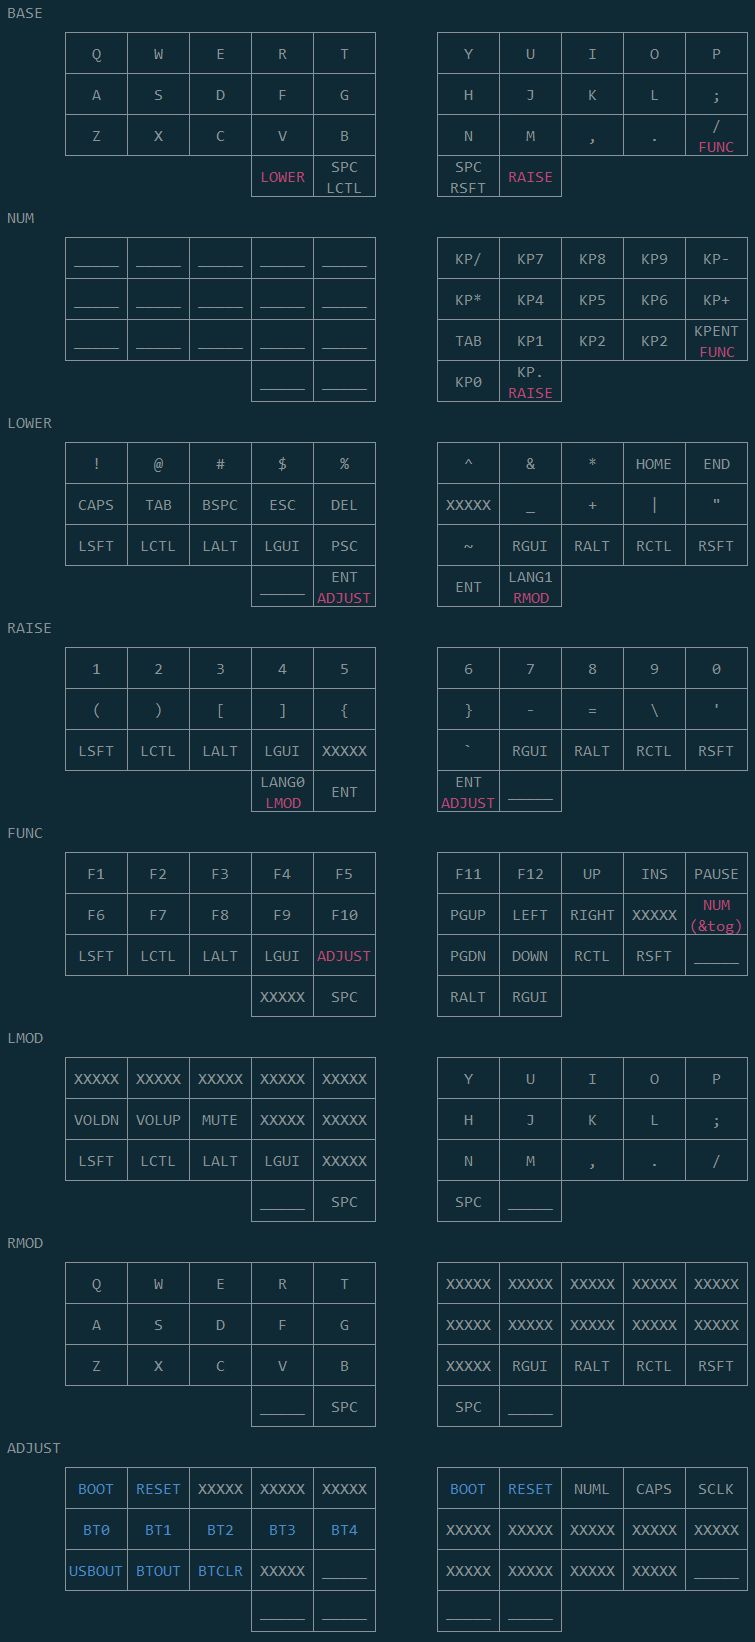
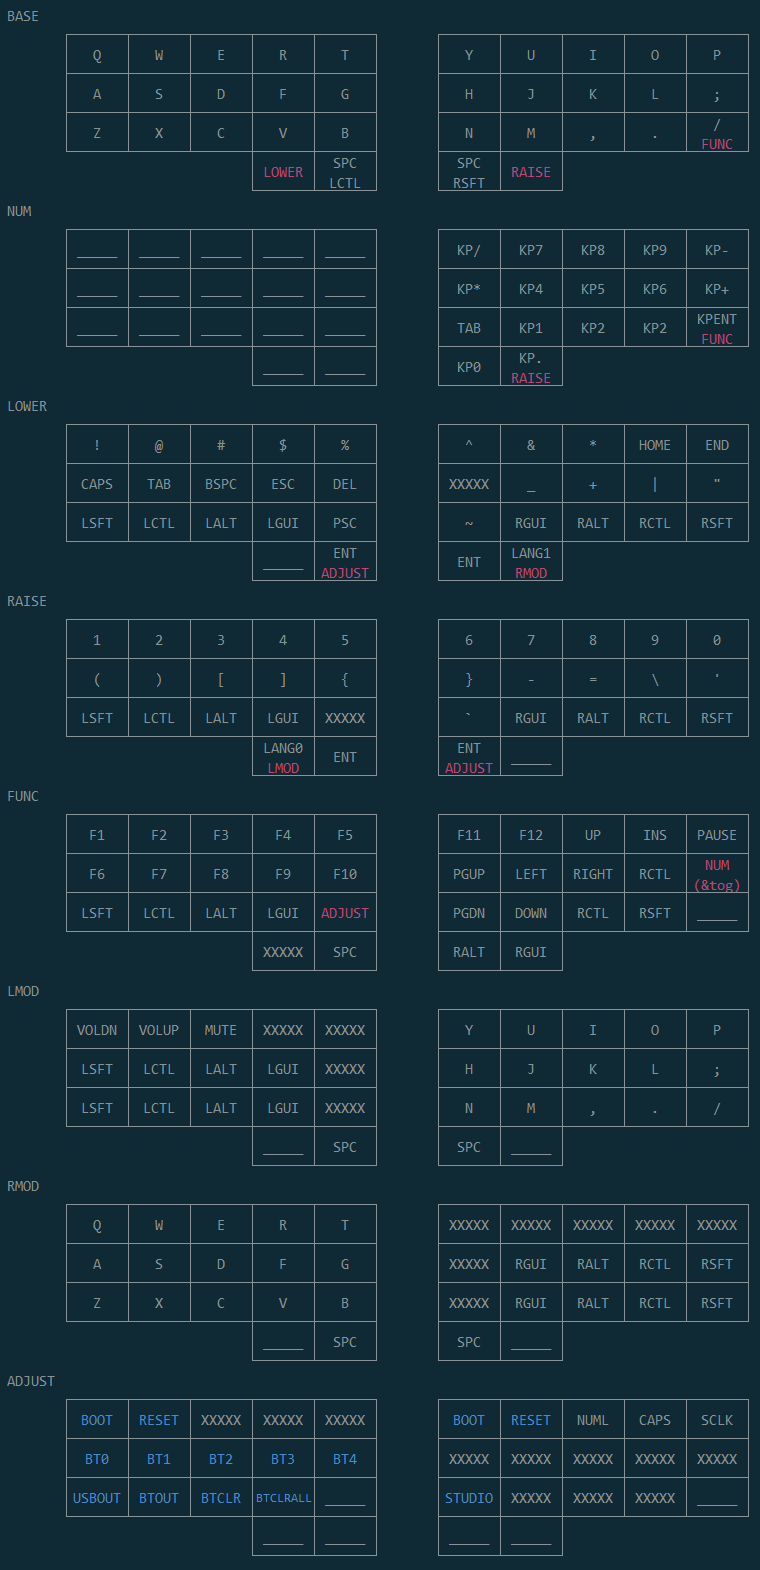
add: ZMK Studio, etc.

diff --git a/doc/buildguide.md b/doc/buildguide.md
@@ -92,21 +92,23 @@ When charging is complete, the green LED will turn off. Disconnect the USB cable
 
 # Firmware
 
-Please refer to the official ZMK Firmware documentation for instructions on how to flash firmware, change keymap, etc.  
+Please refer to the official ZMK Firmware documentation for instructions on how to flash firmware, change keymap, etc.   
+The latest firmware supports ZMK Studio.
 
 You can download UF2 file from the following link.  
 https://github.com/note96e/thorium-zmk-config/releases  
 After downloading, unzip the thorium-x.x.x.zip file.
-- Dongle: thorium-seeeduino_xiao_ble-zmk.uf2  
+- Dongle: thorium_dongle-seeeduino_xiao_ble-zmk.uf2  
 - Left half: thorium_left-seeeduino_xiao_ble-zmk.uf2  
 - Right half: thorium_right-seeeduino_xiao_ble-zmk.uf2  
 
 You can download the UF2 file for the dongle and each half pairing reset.   
 https://github.com/note96e/thorium-reset-zmk-config/releases  
 After downloading, unzip the thorium-reset-x.x.x.zip file. 
-- Dongle: thorium_reset-seeeduino_xiao_ble-zmk.uf2  
+- Dongle: thorium_reset_dongle-seeeduino_xiao_ble-zmk.uf2  
 - Left half: thorium_reset_left-seeeduino_xiao_ble-zmk.uf2  
 - Right half: thorium_reset_right-seeeduino_xiao_ble-zmk.uf2  
+
 In the left and right halves, the first row of keys is assigned to &bootloader.
 
 ## Default keymap
@@ -120,3 +122,5 @@ The blue text is assigned the following key codes in ZMK.
 - USBOUT: &out OUT_USB
 - BTOUT: &out OUT_BLE
 - BTCLR: &bt BT_CLR
+- BTCLRALL: &bt BT_CLR_ALL
+- STUDIO: &studio_unlock

diff --git a/README.md b/README.md
@@ -12,6 +12,7 @@
 - Lipo battery (260mAh)
 - Seeed Studio XIAO nRF52840
 - ZMK Firmware
+- ZMK Studio  
 ## Resources
 - [Build guide](./doc/buildguide.md)
 - PCB Files (KiCad7, .zip(gerbers)): [Left](https://github.com/note96e/thorium/tree/main/pcbl) | [Right](https://github.com/note96e/thorium/tree/main/pcbr)
